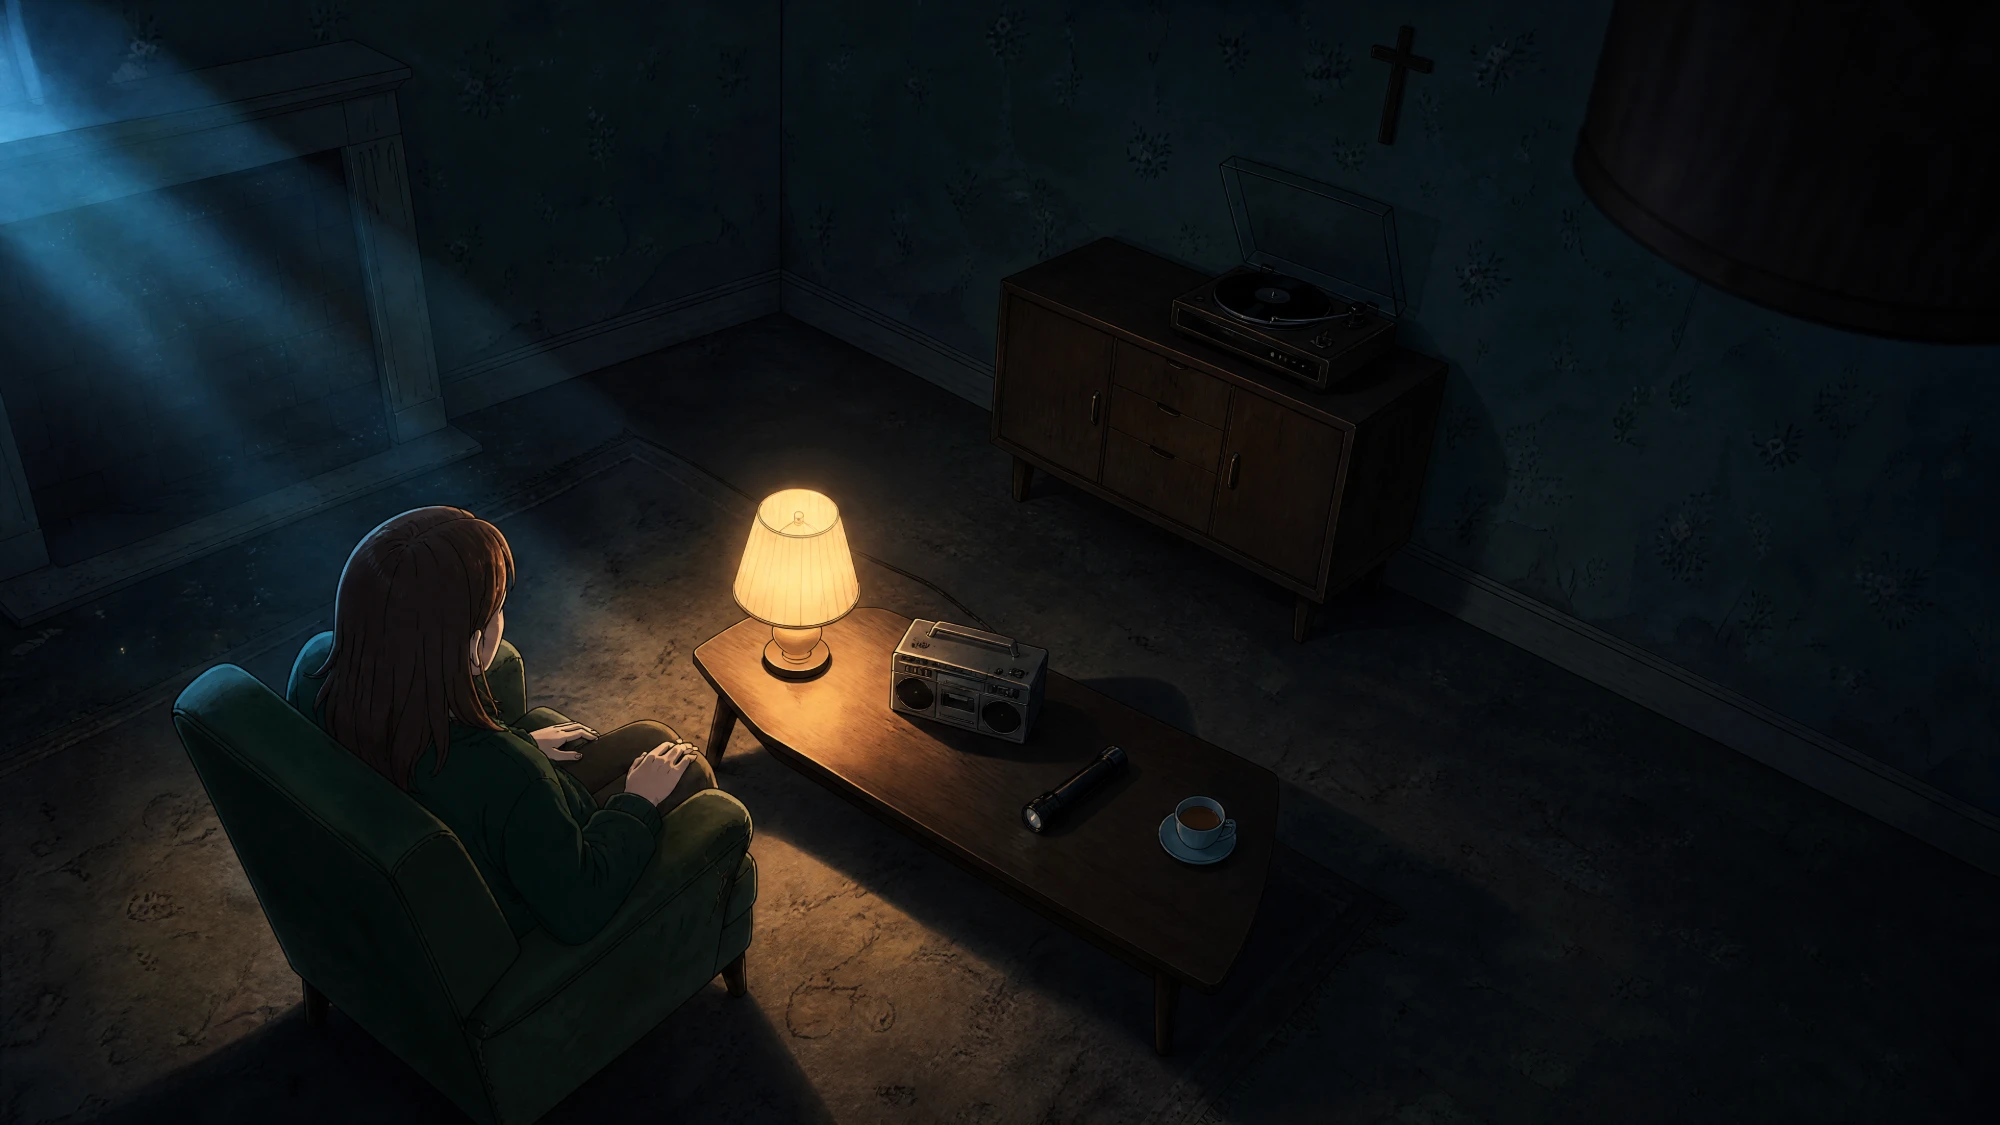
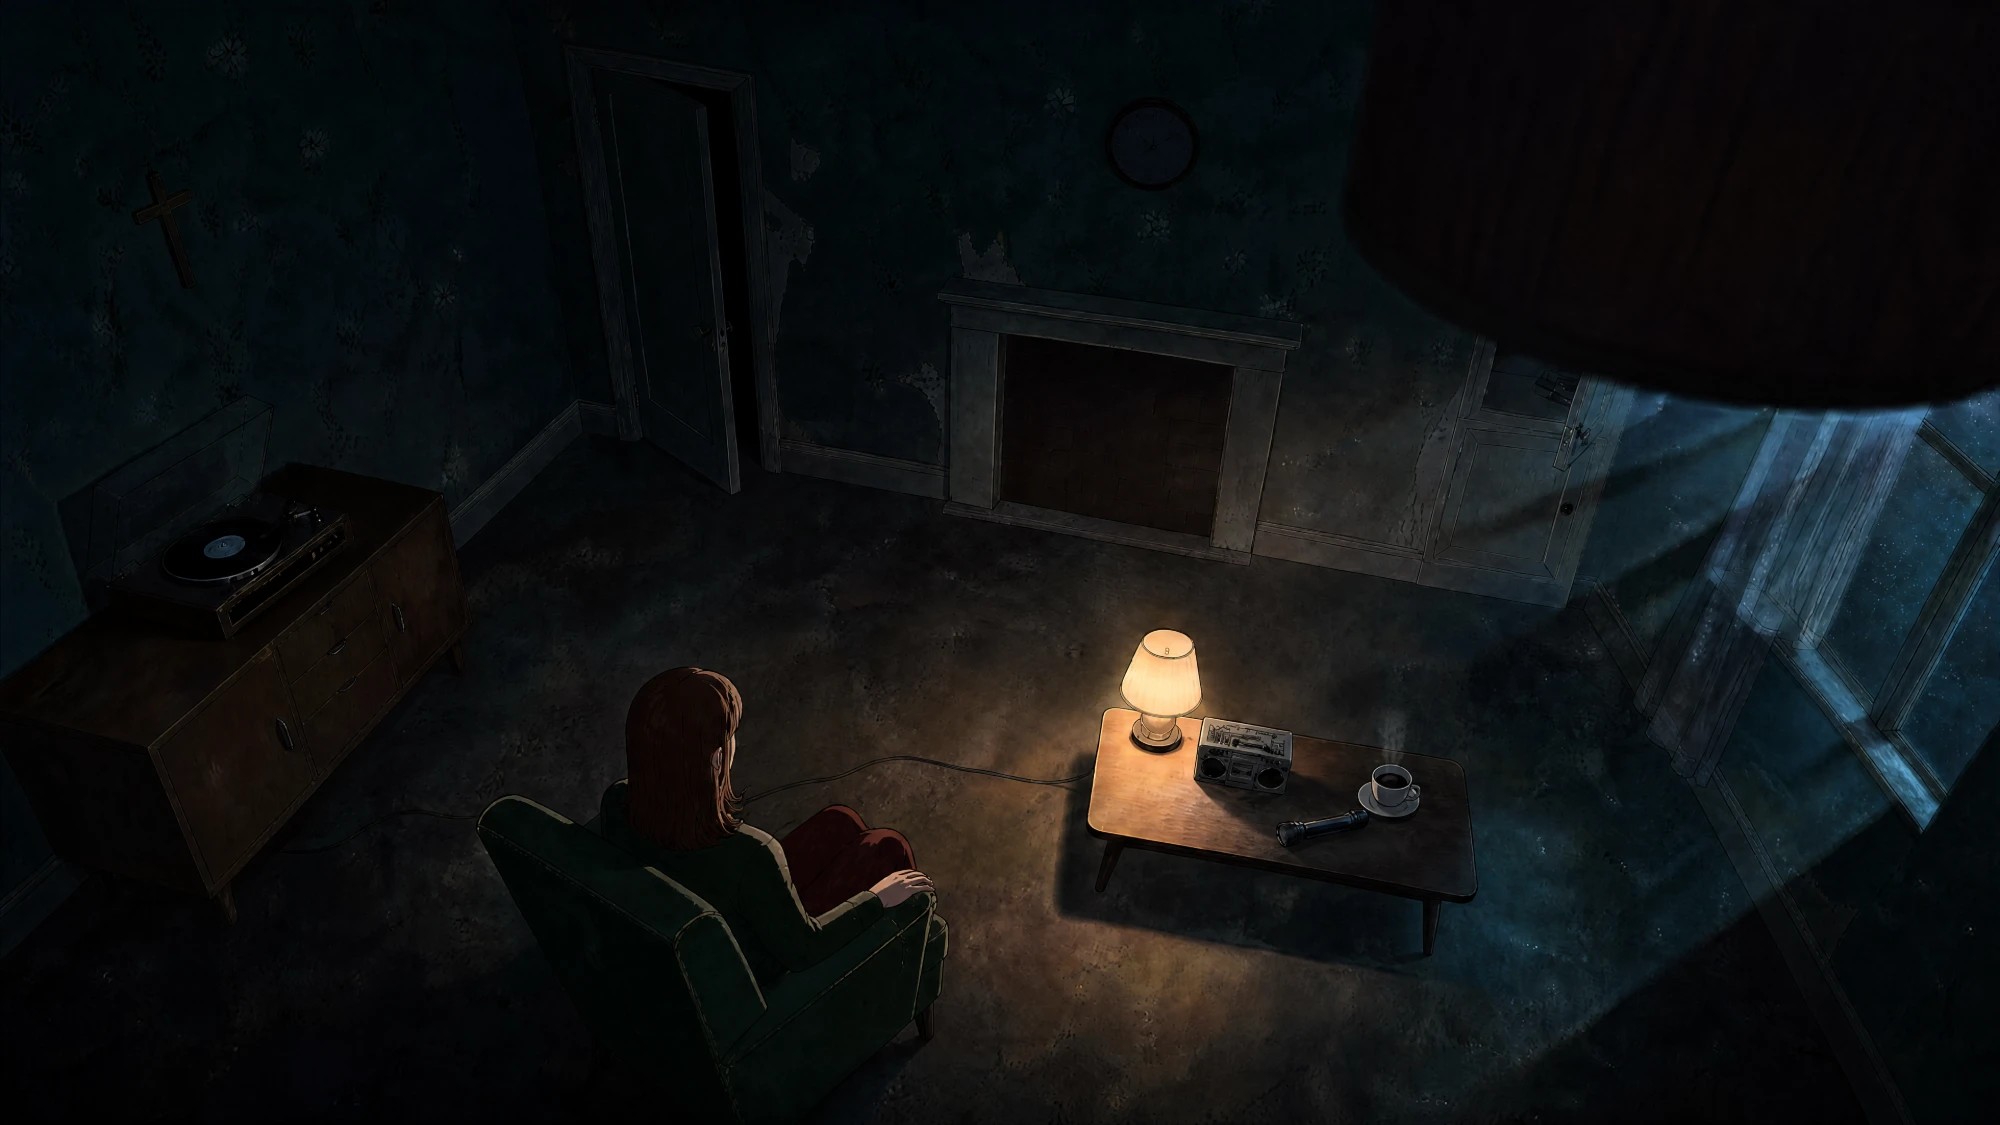
Approve SH070 top view v2e
Claude-Session: https://claude.ai/code/session_01TcVNYSZDPrfyS5ZdR6sMpF

diff --git a/00_bible/characters/cards.md b/00_bible/characters/cards.md
@@ -77,4 +77,4 @@
 | SH070 | вид сверху (первый кадр) | gpt-image-2, реф. L1-e + карта Рут | https://res-prod.buzzy.now/file-service/2c4f3281-d48f-4303-8049-13a8b241d826.png | ОТМЕНЁН (замечание пользователя): расстановка перевёрнута — сервант справа вместо слева, столик сбоку вместо перед креслом |
 | SH070 | абажур (кадр на 6 с) | gpt-image-2, реф. L1-e | https://res-prod.buzzy.now/file-service/65ef1076-9327-4c81-9c94-0b148f3471db.png | **УТВЕРЖДЁН**: абажур ≈ 65 % кадра, слева полоска комнаты с горящей лампой; до полной черноты добиваем на монтаже |
 | SH070 | вид сверху v2 | gpt-image-2, реф. стартовый кадр SH020 v3 + L1-d (та же расстановка, камера под потолок) | https://res-prod.buzzy.now/file-service/243e5c08-c3d7-41db-ab26-3e0e1c6e8ff8.png | расстановка верная; ошибка: чашка в правой руке (а правой она берёт фонарик) → правка v2e |
-| SH070 | вид сверху v2e | gpt-image-2, правка v2: чашка на столе, руки на подлокотниках | https://res-prod.buzzy.now/file-service/8e63130b-b106-45b5-902e-572636912bfb.png | ждёт проверки |
+| SH070 | вид сверху v2e | gpt-image-2, правка v2: чашка на столе, руки на подлокотниках | https://res-prod.buzzy.now/file-service/8e63130b-b106-45b5-902e-572636912bfb.png | **УТВЕРЖДЁН**: расстановка как в SH020/L1, чашка на столе с паром, правая рука на подлокотнике свободна, фонарик выключен |

diff --git a/log.md b/log.md
@@ -46,3 +46,4 @@
 | 2026-11-06 | SH060 | Дубль 3 (v3): БРА НЕТ — тёмный потолок → тёмная стена → лицо; абажур настольной лампы справа внизу с ~4 с; склеек нет; голос с плёнки по энергии 1.0–1.6 и 3.0–3.8 с; около 4.2 с взгляд в сторону, к 5.0 с обратно вниз. Причина бра подтверждена: невидимый источник света. УТВЕРЖДЁН | Seedance 2.5 | — | zh-v3 | утверждено | SH070 |
 | 2026-11-06 | SH070 | Кадры (вид сверху, абажур) утверждены | gpt-image-2 | — | — | утверждено | видео SH070 |
 | 2026-11-06 | SH070 | Вид сверху v1 отменён: перевёрнута расстановка (сервант не с той стороны, столик сбоку). v2 строится от стартового кадра SH020 (правильная комната), меняется только высота камеры | gpt-image-2 | — | — | — | проверить расстановку |
+| 2026-11-06 | SH070 | Вид сверху v2e утверждён (правильная расстановка, чашка на столе) | gpt-image-2 | — | — | утверждено | видео SH070 |
